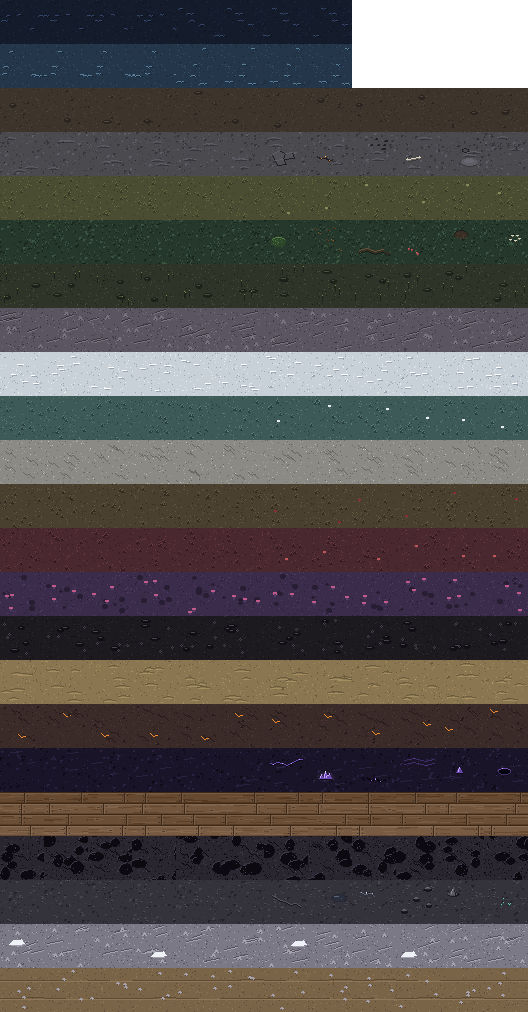
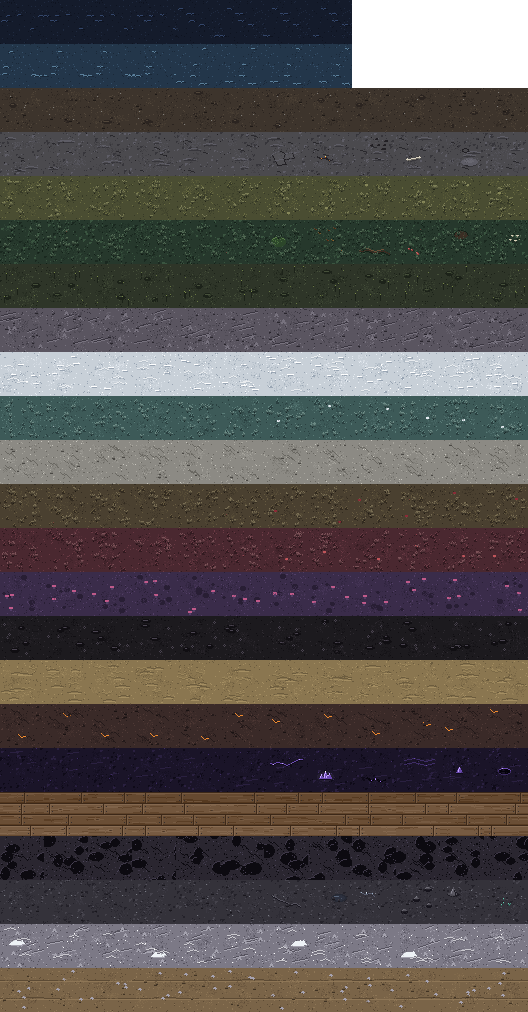
Finer ground and one look for every house
- Every land tile gets a second pass of detail: soft patches of light
  and shade kept off the edges, and its ground's own texture: clumps of
  blades on grass (dark at the root, lit at the tip, a pixel of shadow),
  wind ripples and grains on sand, drifts and sparkle on snow, shaded
  pebbles on paths, earth and rock, a wet sheen on mud, soot on ash.
- The player's house (cottage, two storeys, towered manor) and the
  farmsteads now use the full-size village houses, so every building in
  the world is drawn the same way.
- A faction test now sets aside a randomly rolled dodge or shield.

Claude-Session: https://claude.ai/code/session_018VKRMzBJrrQDcMAxNX13Ea

diff --git a/tools/generate_art.py b/tools/generate_art.py
@@ -3302,6 +3302,102 @@ def _draw_icon(parts):
     return img
 
 
+def _mix(a, b, t):
+    return tuple(int(a[i] + (b[i] - a[i]) * t) for i in range(3)) + (255,)
+
+
+def enrich_tile(img, row, variant):
+    """A second pass of finer detail over a finished ground tile: soft
+    patches of light and shade kept off the edges (so neighbours still
+    meet cleanly), and each kind of ground's own small texture: blade
+    clumps on grass, ripples on sand, drifts on snow, shaded pebbles on
+    paths and earth, a wet sheen on mud, soot on ash."""
+    name, style, base, light, dark, accent = TILES[row]
+    if style in ("water", "plank", "rock"):
+        return img
+    base, light, dark, accent = rgba(base), rgba(light), rgba(dark), rgba(accent)
+    r = random.Random(row * 977 + variant * 13 + 5)
+    px = img.load()
+
+    def put(x, y, c):
+        if 0 <= x < N and 0 <= y < N:
+            px[x, y] = c
+
+    def is_ground(x, y):
+        return 0 <= x < N and 0 <= y < N and px[x, y][:3] in (base[:3], _mix(base, light, 0.3)[:3], _mix(base, dark, 0.3)[:3])
+
+    # Soft patches: small irregular blobs, a third of the way to light or dark.
+    for _ in range(10):
+        cx, cy = r.randrange(6, N - 6), r.randrange(6, N - 6)
+        toward = light if r.random() < 0.5 else dark
+        for _ in range(r.randrange(14, 26)):
+            x, y = cx + r.randrange(-4, 5), cy + r.randrange(-3, 4)
+            if 0 <= x < N and 0 <= y < N:
+                put(x, y, _mix(px[x, y], toward, 0.35))
+    if style == "grass":
+        # Clumps of three to five blades, dark at the root, lit at the tip,
+        # with a pixel of shadow beneath.
+        for _ in range(12):
+            x, y = r.randrange(3, N - 5), r.randrange(6, N - 2)
+            put(x, y + 1, _mix(dark, (0, 0, 0, 255), 0.35))
+            for b in range(r.randrange(3, 6)):
+                bx = x + b - 1
+                h = r.randrange(2, 5)
+                lean = r.choice((-1, 0, 0, 1))
+                for k in range(h):
+                    t = k / max(h - 1, 1)
+                    put(bx + (lean if k == h - 1 else 0), y - k, _mix(dark, _mix(light, (255, 255, 230, 255), 0.12), 0.1 + 0.9 * t))
+        if variant % 4 == 1:
+            # A tiny flower, low-key.
+            x, y = r.randrange(5, N - 5), r.randrange(5, N - 5)
+            put(x, y, _mix(accent, light, 0.5))
+            put(x, y + 1, dark)
+    elif style == "sand":
+        for _ in range(4):
+            x, y, w = r.randrange(2, N - 14), r.randrange(4, N - 4), r.randrange(6, 12)
+            for k in range(w):
+                yy = y + (1 if (k // 3) % 2 else 0)
+                put(x + k, yy, _mix(base, light, 0.6))
+                put(x + k, yy + 1, _mix(base, dark, 0.45))
+        for _ in range(10):
+            put(r.randrange(2, N - 2), r.randrange(2, N - 2), _mix(base, dark if r.random() < 0.5 else light, 0.7))
+    elif style in ("snow", "peak"):
+        for _ in range(3):
+            x, y, w = r.randrange(3, N - 16), r.randrange(5, N - 5), r.randrange(8, 14)
+            for k in range(w):
+                arc = int(2 * (1 - abs(k / w - 0.5) * 2))
+                put(x + k, y - arc, _mix(base, (255, 255, 255, 255), 0.6))
+                put(x + k, y - arc + 1, _mix(base, dark, 0.35))
+        for _ in range(6):
+            put(r.randrange(2, N - 2), r.randrange(2, N - 2), (255, 255, 255, 255))
+    elif style in ("path", "mud", "mountain", "cracked", "cinder"):
+        # Shaded pebbles: lit top-left, shaded bottom-right, a dark rim.
+        for _ in range(4 if style != "mountain" else 6):
+            x, y = r.randrange(3, N - 6), r.randrange(3, N - 5)
+            w, h = r.randrange(2, 4), r.randrange(2, 3)
+            for yy in range(h):
+                for xx in range(w):
+                    put(x + xx, y + yy, _mix(light, base, 0.2) if xx + yy == 0 else _mix(base, dark, 0.3 + 0.3 * (xx + yy) / (w + h)))
+            for xx in range(w):
+                put(x + xx, y + h, _mix(dark, (0, 0, 0, 255), 0.3))
+        if style == "mud":
+            for _ in range(3):
+                x, y = r.randrange(4, N - 6), r.randrange(4, N - 4)
+                put(x, y, _mix(light, (200, 210, 220, 255), 0.4))
+                put(x + 1, y, _mix(light, base, 0.4))
+    elif style == "ash":
+        for _ in range(3):
+            x, y = r.randrange(3, N - 10), r.randrange(3, N - 4)
+            for k in range(r.randrange(4, 8)):
+                put(x + k, y + (k // 3), _mix(dark, (0, 0, 0, 255), 0.25))
+    elif style == "bog":
+        for _ in range(4):
+            x, y = r.randrange(3, N - 4), r.randrange(4, N - 3)
+            put(x, y, _mix(accent, light, 0.3))
+            put(x + 1, y - 1, _mix(dark, light, 0.4))
+    return img
+
+
 def draw_terrain():
     atlas = Image.new("RGBA", (VARIANTS * N, len(TILES) * N))
     for row in range(len(TILES)):
@@ -3311,7 +3407,7 @@ def draw_terrain():
                     continue
                 tile = draw_tile(row, column // WATER_FRAMES, column % WATER_FRAMES)
             else:
-                tile = draw_tile(row, column)
+                tile = enrich_tile(draw_tile(row, column), row, column)
             atlas.paste(tile, (column * N, row * N))
     atlas.save(os.path.join(ROOT, "tiles", "terrain.png"))
     draw_fringes().save(os.path.join(ROOT, "tiles", "fringes.png"))
